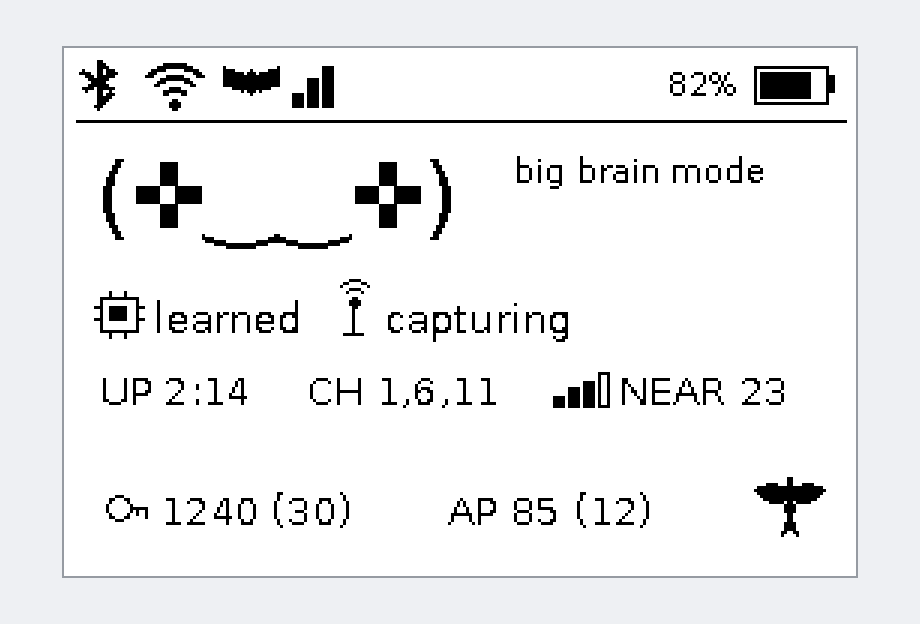
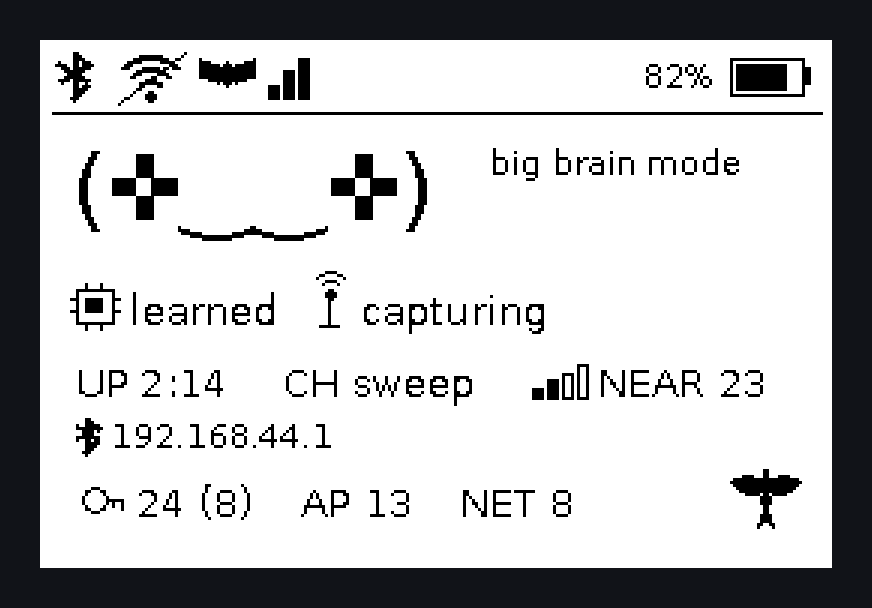
Refresh the README screenshots for 1.0.9 in dark mode
Re-render every README image from the current code on the ghost-guide demo
device (iPhone 14 Pro Max, dark mode, sample data), add the map and the new
sign-in and downloads pages, and bring the e-ink counter descriptions up to
date.

diff --git a/README.md b/README.md
@@ -50,23 +50,37 @@ The device serves a mobile-first web dashboard over its management link (Bluetoo
   <img src="docs/images/web-ui.png" alt="Kestrel web UI on a phone: the dashboard, plugins and AI agent pages" width="840">
 </p>
 
-Left to right: the **dashboard** (status, capture control, the Environment readout and plugin readout cards), the **plugins** page (enable/disable and per-plugin actions) and the **AI agent** page (policy, algorithm and live readout). The values are sample data. An interactive preview of these exact pages — live and scrollable — is at [`assets/branding/web-ui-iphone-preview.html`](assets/branding/web-ui-iphone-preview.html); open it in a browser.
+Left to right: the **dashboard** (status, capture control, the Environment readout and plugin readout cards), the **plugins** page (enable/disable, settings and each plugin's own buttons) and the **AI agent** page (policy, algorithm and live readout). All screenshots are an iPhone 14 Pro Max in dark mode with sample data.
+
+### The map
+
+With the optional `map` plugin, every captured network with a known location is drawn on one map: pins for locations the onboard GPS recorded, `~` rings for estimates (from WiGLE, say), and numbered squares for networks close together. **Green with a lock** marks a network whose passphrase you've recovered and **gray** one you haven't; a square is green if any network in it is. Drag to move and pinch (or scroll) to zoom; the map redraws for the new area when you let go.
 
 <p align="center">
-  <img src="docs/images/features.png" alt="More Kestrel pages on a phone: captured networks, advanced settings, the operator guide and the live e-ink display mirror" width="900">
+  <img src="docs/images/map-view.png" alt="The map plugin on a phone: pins and numbered squares over an OpenStreetMap street map, green with a lock for recovered networks and gray for the rest, and a list of the networks captured from one spot" width="600">
 </p>
 
-More of the interface: the **captured networks** page (searchable and paginated), the **advanced settings** editor (one validated key at a time), the on-device **operator guide**, and the **live e-ink mirror** — the exact frame the e-Paper HAT shows, viewable from your phone even with no HAT attached.
+Left: the map, with a scale bar, north arrow and the OpenStreetMap attribution. Right: networks captured from one spot share its location, so no zoom can separate them; their square lists them under the map instead, with 🔒 for recovered and 📍 or ≈○ for a recorded or estimated location. The pins are sample data placed by hand. The device sends nothing, but your browser loads the map images for the area in view from OpenStreetMap; set `tile_url` to your own tile server, or leave it empty for a plain coordinate grid that works offline. The passphrase itself never appears on the map.
+
+### More of the interface
+
+<p align="center">
+  <img src="docs/images/features.png" alt="More Kestrel pages on a phone: the sign-in page, captured networks, downloads, advanced settings, the operator guide and the live e-ink display mirror" width="900">
+</p>
+
+Top row: the **sign-in** page (off the device the dashboard is HTTPS, and you sign in with the device account, the same login as SSH), the **captured networks** page (by network or by access point, searchable and sortable, with **Import results** for recovered passphrases at the top, and each network's recovered and location marks), and the **downloads** page (take your handshake files home as a zip, only the ones new since your last download, or one combined `.hc22000`). Bottom row: the **advanced settings** editor (one validated key at a time), the on-device **operator guide**, and the **live e-ink mirror**: the exact frame the e-Paper HAT shows, viewable from your phone even with no HAT attached.
 
 ### The e-ink face
 
 With the optional `eink` plugin and a Waveshare 2.7" e-Paper HAT, the device wears an animated "tamagotchi" face whose expression follows real device and learning-agent state — it never plays a canned loop.
 
 <p align="center">
-  <img src="docs/images/eink-panel.png" alt="The Kestrel e-ink face: a top icon strip, the mascot face, agent and capture status, uptime and channel, how many radios are in range, handshake and AP counters, and the Kestrel mark" width="460">
+  <img src="docs/images/eink-panel.png" alt="The Kestrel e-ink face: a top icon strip, the mascot face, agent and capture status, uptime, channel plan and how many radios are in range, the device's address, handshake, access point and network counters, and the Kestrel mark" width="460">
 </p>
 
-The panel shows a top icon strip (Bluetooth PAN and Wi-Fi link, a GPS satellite with signal bars, and battery), the mascot face with a mood-matched voice line, the **agent** mode (`off` / `baseline` / `learned`) and **capture** state, uptime, the channel plan and how many radios are in range (`NEAR`), the device's address on each connected link (so you can find the dashboard without your router's client list), lifetime and session counters for captured handshakes (`PWND`) and access points (`AP`), and the Kestrel mark in the corner. With no HAT attached it still renders to the web mirror.
+The panel shows a top icon strip (Bluetooth PAN and Wi-Fi link, a GPS satellite with signal bars, and battery), the mascot face with a mood-matched voice line, the **agent** mode (`off` / `baseline` / `learned`) and **capture** state, uptime, the channel plan and how many radios are in range (`NEAR`), the device's address on each connected link (so you can find the dashboard without your router's client list), the counters for captured handshakes (a key glyph, with this session's count in brackets), access points (`AP`) and networks (`NET`), and the Kestrel mark in the corner. With no HAT attached it still renders to the web mirror.
+
+The HAT's four keys work too: KEY1 opens an info screen, a long KEY2 press stops capture (or, after a second press, starts it again, but only once the authorized-use acknowledgment has been given on the dashboard), and long KEY3/KEY4 presses reboot or shut down after a second press.
 
 ## What's in the image
 

diff --git a/docs/user-guide/eink-setup.md b/docs/user-guide/eink-setup.md
@@ -43,9 +43,10 @@ reference plugin it ships **disabled**.
   link, behind the same Bluetooth and Wi-Fi symbols as the top strip, so you
   can open the dashboard on a headless device without checking your router's
   client list. A link with no address is left out. Turn it off with `show_ip`.
-- Shows a **bottom counter row**: `PWND` captured handshakes (a key glyph) and
-  `AP` distinct captured access points, each the lifetime total with the count
-  from this session in parentheses, e.g. `200 (30)`.
+- Shows a **bottom counter row**: `PWND` captured handshakes (a key glyph), the
+  lifetime total with the count from this session in parentheses, e.g.
+  `200 (30)`; then `AP` distinct captured access points and `NET` distinct
+  networks, both lifetime totals.
 - Draws the **Kestrel brand mark** once, in the lower-right corner; its pose
   reflects motion — stooping (diving) when moving, hovering when parked.
 - **Motion** (parked / walking / driving) is estimated from your GPS speed
